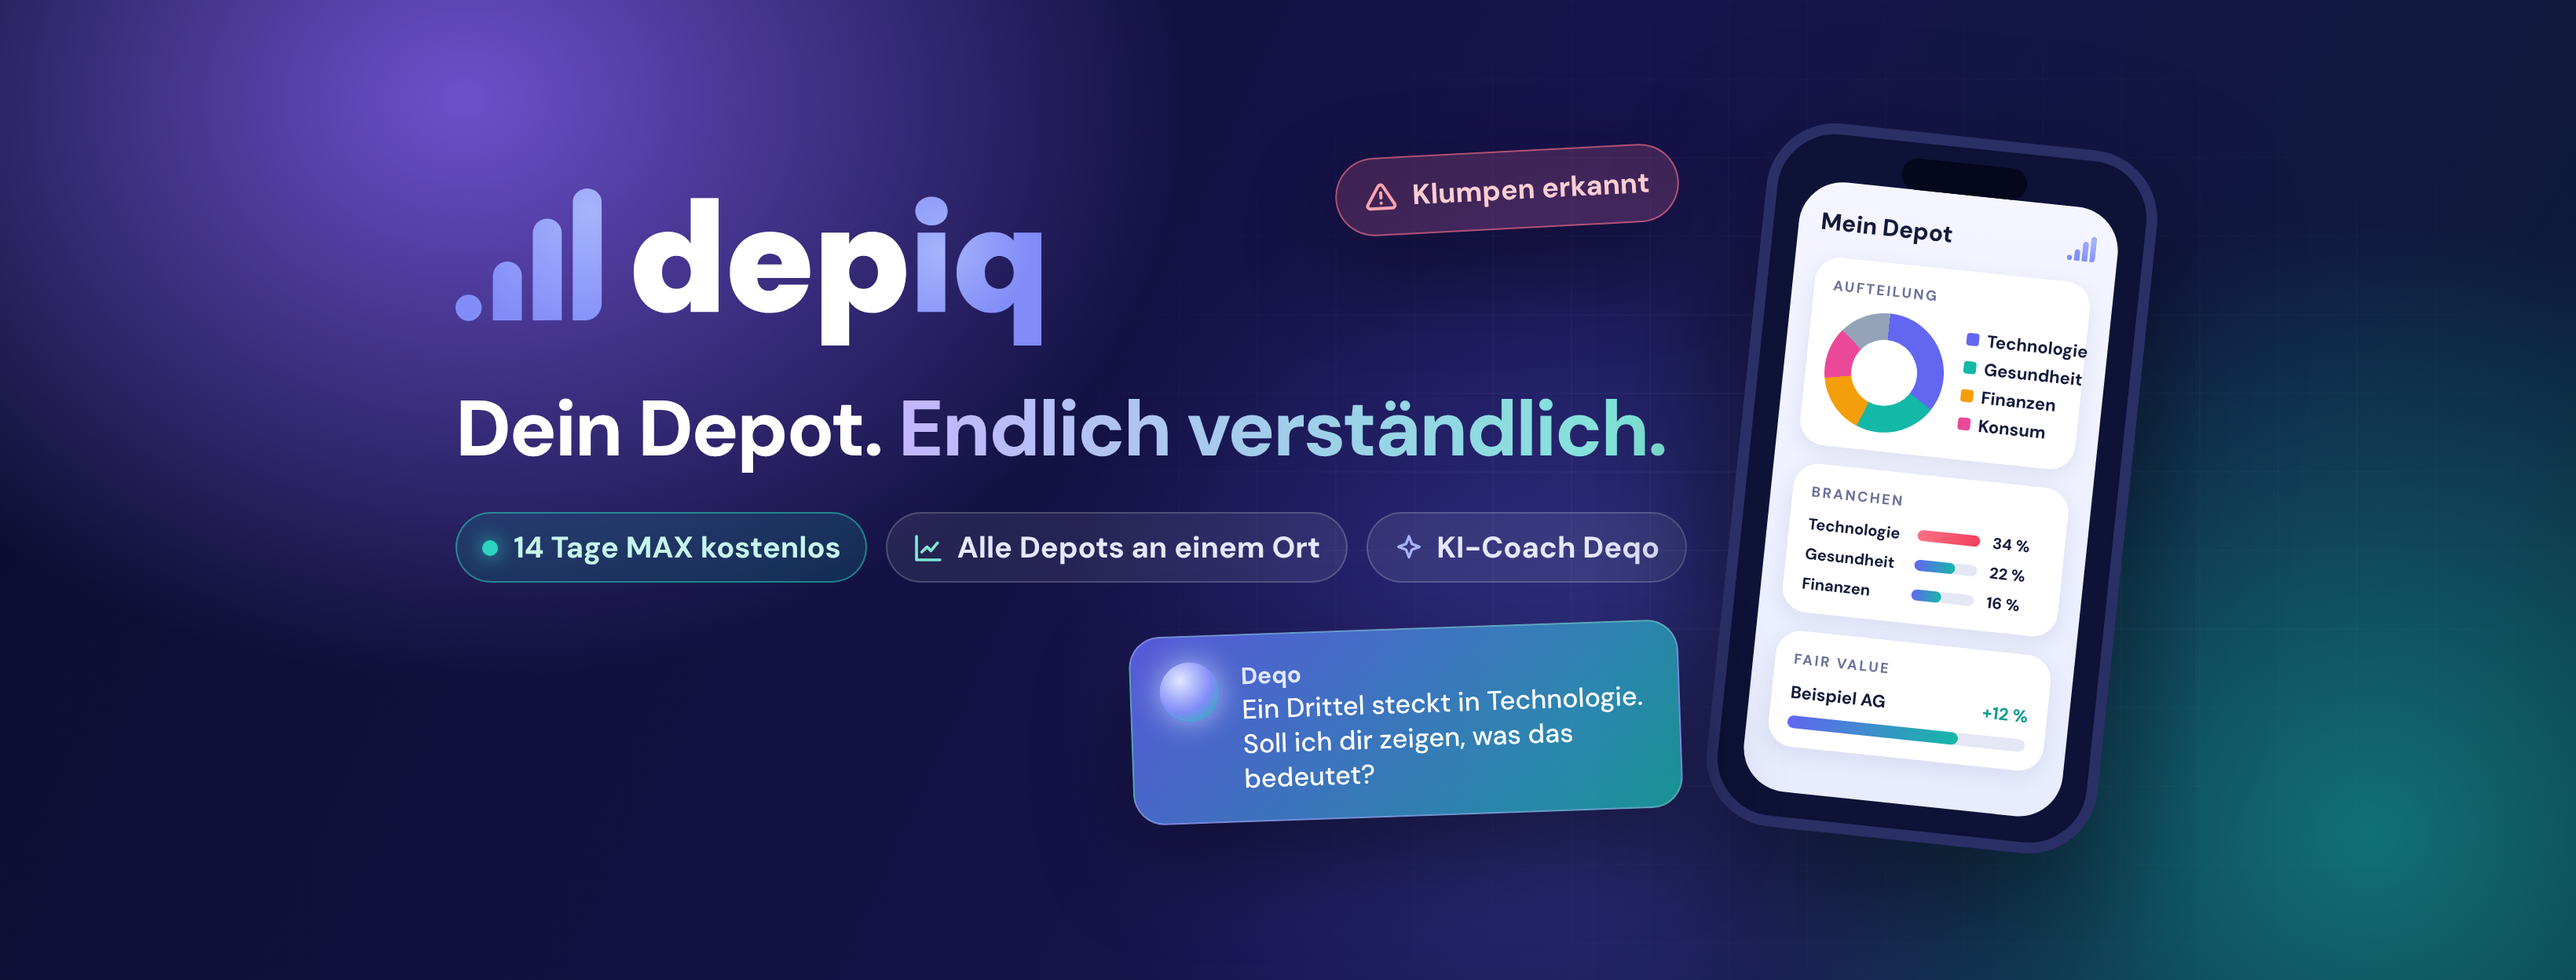
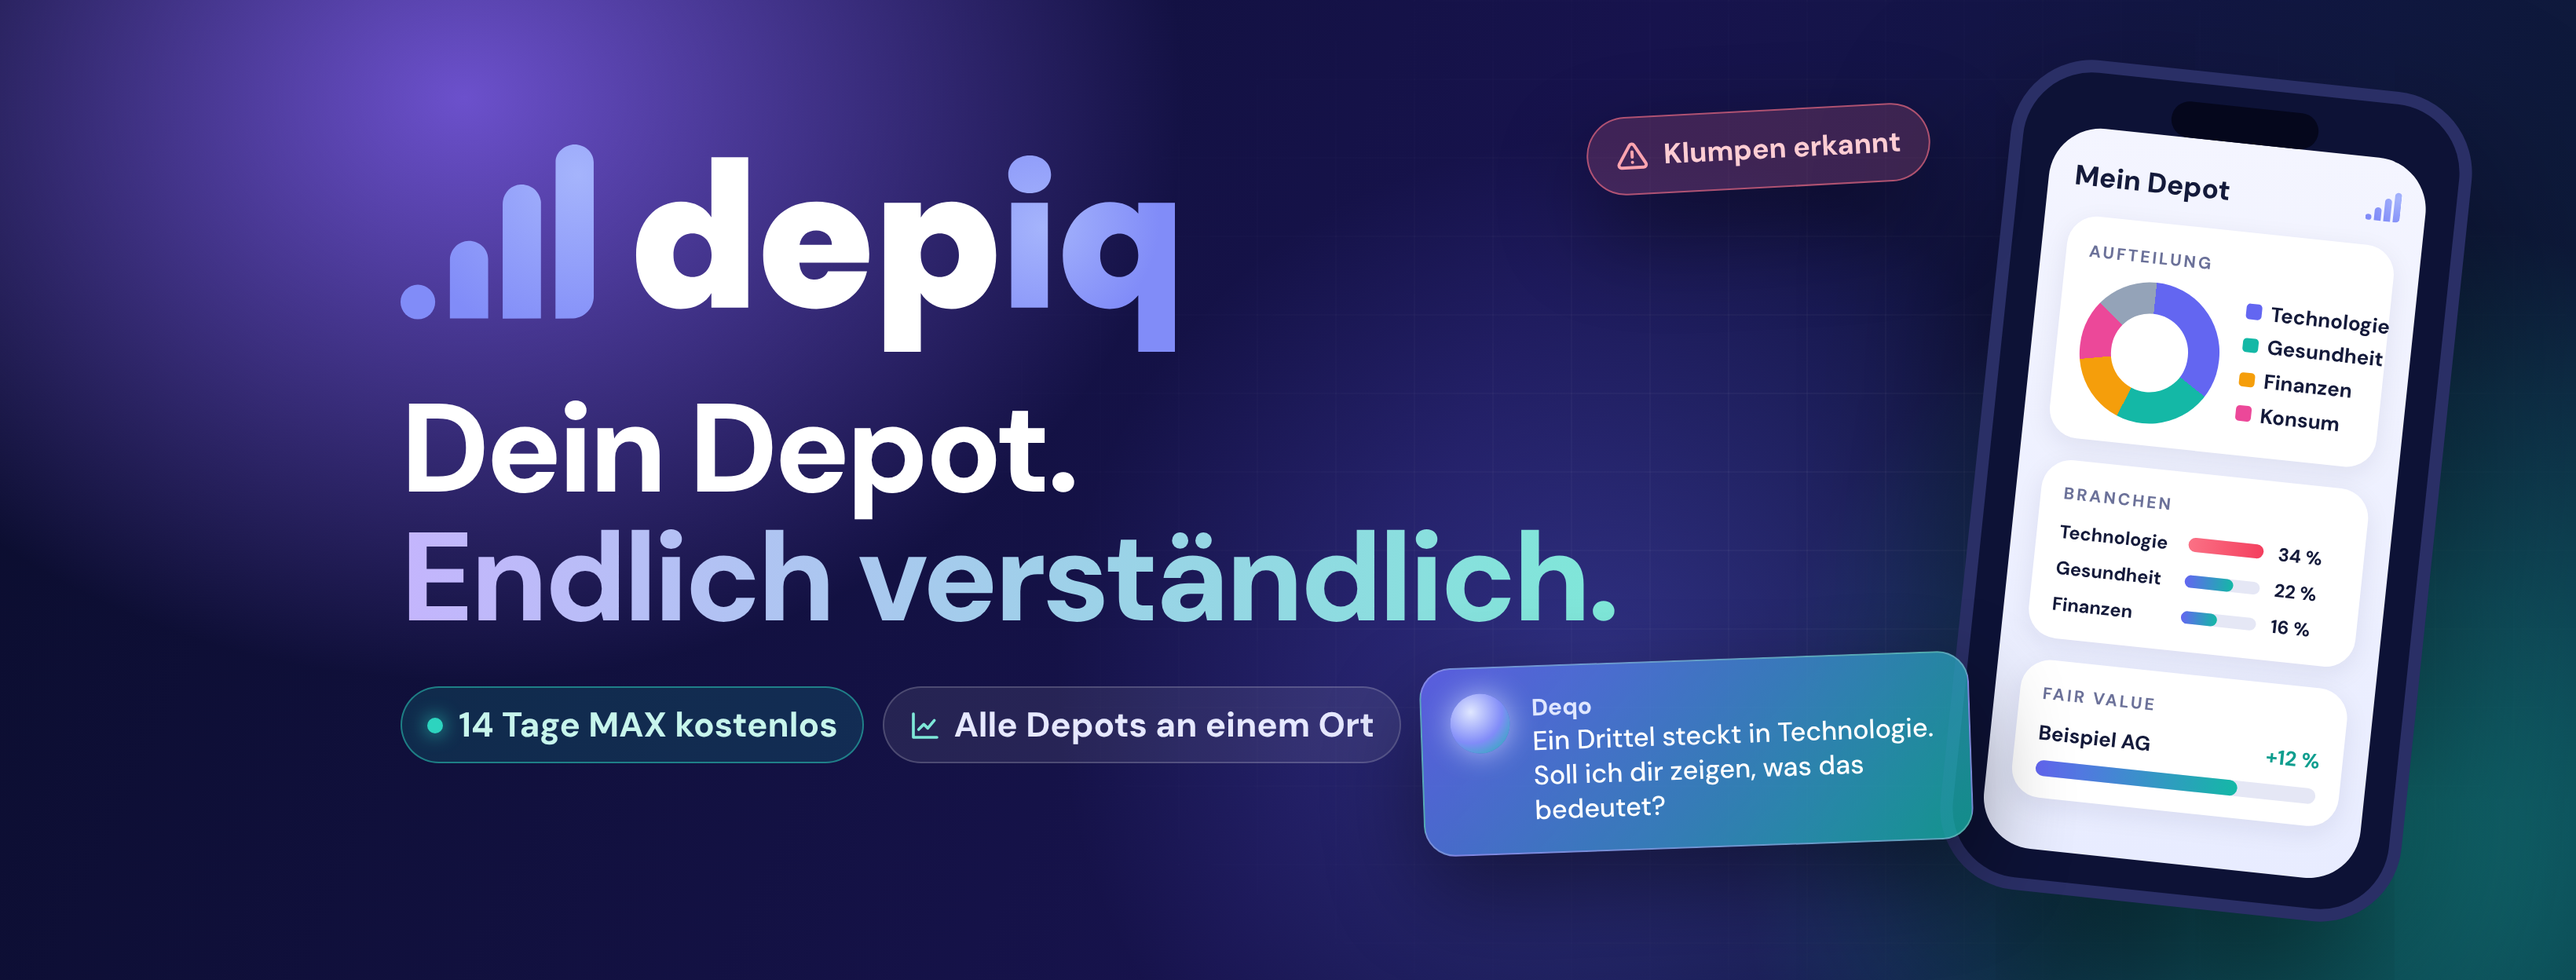
Facebook-Titelbild neu aufgeteilt: volle Breite, größere Überschrift
Claude-Session: https://claude.ai/code/session_01TCMRwfkoPUXt6cdHJjM9Lg

diff --git a/vorlage/fb-titelbild.html b/vorlage/fb-titelbild.html
@@ -16,15 +16,15 @@ em{font-style:normal;background:linear-gradient(90deg,#c4b5fd,#7ee7d8);-webkit-b
  radial-gradient(ellipse 35% 90% at 92% 85%, rgba(20,184,166,.55), transparent 70%),
  linear-gradient(115deg,#0a0d2c,#17134d 55%,#0a1c33)}
 .raster{position:absolute;inset:0;background-image:linear-gradient(rgba(255,255,255,.035) 1px,transparent 1px),linear-gradient(90deg,rgba(255,255,255,.035) 1px,transparent 1px);background-size:50px 50px;mask-image:radial-gradient(ellipse 50% 90% at 70% 50%,#000,transparent 75%)}
-.links{position:absolute;left:290px;top:120px}
-.logo{height:100px;display:block}
-h1{font-size:50px;font-weight:800;letter-spacing:-.025em;margin:20px 0 20px;white-space:nowrap}
+.links{position:absolute;left:255px;top:92px}
+.logo{height:132px;display:block}
+h1{font-size:80px;line-height:1.02;font-weight:800;letter-spacing:-.03em;margin:22px 0 28px;white-space:nowrap}
 .chips{display:flex;gap:12px}
-.chip{display:inline-flex;align-items:center;gap:8px;font-size:19px;font-weight:700;padding:9px 16px;border-radius:999px;background:rgba(255,255,255,.08);border:1.5px solid rgba(255,255,255,.18);color:#e6e8ff}
+.chip{display:inline-flex;align-items:center;gap:8px;font-size:22px;font-weight:700;padding:9px 16px;border-radius:999px;background:rgba(255,255,255,.08);border:1.5px solid rgba(255,255,255,.18);color:#e6e8ff}
 .chip svg{width:20px;height:20px}
-.live{display:inline-flex;align-items:center;gap:10px;font-size:19px;font-weight:700;color:#c7f5ec;padding:9px 16px;border-radius:999px;background:rgba(20,184,166,.16);border:1.5px solid rgba(45,212,191,.5)}
+.live{display:inline-flex;align-items:center;gap:10px;font-size:22px;font-weight:700;color:#c7f5ec;padding:9px 16px;border-radius:999px;background:rgba(20,184,166,.16);border:1.5px solid rgba(45,212,191,.5)}
 .live i{width:10px;height:10px;border-radius:50%;background:#2dd4bf;box-shadow:0 0 12px #2dd4bf}
-.handy{position:absolute;left:1105px;top:86px;width:250px;height:450px;border-radius:44px;background:#0d1236;border:7px solid #2a2f66;box-shadow:0 40px 90px rgba(0,0,0,.6);padding:30px 16px 16px;transform:rotate(6deg)}
+.handy{position:absolute;left:1065px;top:40px;width:250px;height:450px;border-radius:44px;background:#0d1236;border:7px solid #2a2f66;box-shadow:0 40px 90px rgba(0,0,0,.6);padding:30px 16px 16px;transform:rotate(6deg);zoom:1.18}
 .notch{position:absolute;top:10px;left:50%;transform:translateX(-50%);width:80px;height:20px;border-radius:20px;background:#05071c}
 .screen{height:100%;border-radius:28px;background:linear-gradient(180deg,#f4f5ff,#e8ecff);color:#141a3a;padding:16px 14px;display:flex;flex-direction:column;gap:12px}
 .screen .t{font-size:15px;font-weight:800;display:flex;justify-content:space-between;align-items:center}
@@ -42,8 +42,8 @@ h1{font-size:50px;font-weight:800;letter-spacing:-.025em;margin:20px 0 20px;whit
 .zeile .s{height:7px;border-radius:9px;background:#e5e7f5}.zeile .s b{display:block;height:100%;border-radius:9px;background:linear-gradient(90deg,#6366f1,#14b8a6)}
 .zeile .s b.rot{background:linear-gradient(90deg,#fb7185,#f43f5e)}
 .schwebe{position:absolute;z-index:5;border-radius:20px;box-shadow:0 24px 60px rgba(0,0,0,.45)}
-.warn{left:850px;top:96px;padding:12px 18px;font-size:18px;font-weight:700;display:flex;gap:10px;align-items:center;background:rgba(251,113,133,.18);border:1.5px solid rgba(251,113,133,.6);color:#fecdd3;border-radius:999px;transform:rotate(-3deg)}
-.deqo{left:720px;top:400px;width:350px;padding:16px 18px;display:flex;gap:14px;align-items:flex-start;background:linear-gradient(135deg,rgba(99,102,241,.85),rgba(20,184,166,.75));border:1.5px solid rgba(255,255,255,.25);transform:rotate(-2deg)}
+.warn{left:1010px;top:70px;padding:12px 18px;font-size:18px;font-weight:700;display:flex;gap:10px;align-items:center;background:rgba(251,113,133,.18);border:1.5px solid rgba(251,113,133,.6);color:#fecdd3;border-radius:999px;transform:rotate(-3deg)}
+.deqo{left:905px;top:420px;width:350px;padding:16px 18px;display:flex;gap:14px;align-items:flex-start;background:linear-gradient(135deg,rgba(99,102,241,.85),rgba(20,184,166,.75));border:1.5px solid rgba(255,255,255,.25);transform:rotate(-2deg)}
 .orb{flex:none;width:38px;height:38px;border-radius:50%;background:radial-gradient(circle at 35% 30%,#e0e7ff,#818cf8 55%,#14b8a6);box-shadow:0 0 18px rgba(199,210,254,.8)}
 .deqo b{display:block;font-size:15px;color:#e0e7ff}
 .deqo span{font-size:17px;font-weight:500;line-height:1.3}
@@ -55,8 +55,8 @@ h1{font-size:50px;font-weight:800;letter-spacing:-.025em;margin:20px 0 20px;whit
 </defs></svg>
 <div class="links">
  <img class="logo" src="logo-dark.svg" alt="">
- <h1>Dein Depot. <em>Endlich verständlich.</em></h1>
- <div class="chips"><span class="live"><i></i>14 Tage MAX kostenlos</span><span class="chip"><svg><use href="#i-depot"/></svg>Alle Depots an einem Ort</span><span class="chip"><svg><use href="#i-deqo"/></svg>KI-Coach Deqo</span></div>
+ <h1>Dein Depot.<br><em>Endlich verständlich.</em></h1>
+ <div class="chips"><span class="live"><i></i>14 Tage MAX kostenlos</span><span class="chip"><svg><use href="#i-depot"/></svg>Alle Depots an einem Ort</span></div>
 </div>
 <div class="schwebe warn"><svg width="20" height="20" viewBox="0 0 24 24" fill="none" stroke="#fda4af" stroke-width="2.4" stroke-linecap="round" stroke-linejoin="round"><path d="M12 9v4M12 17h.01M10.3 3.9 1.8 18a2 2 0 0 0 1.7 3h17a2 2 0 0 0 1.7-3L13.7 3.9a2 2 0 0 0-3.4 0z"/></svg>Klumpen erkannt</div>
 <div class="schwebe deqo"><div class="orb"></div><div><b>Deqo</b><span>Ein Drittel steckt in Technologie. Soll ich dir zeigen, was das bedeutet?</span></div></div>
